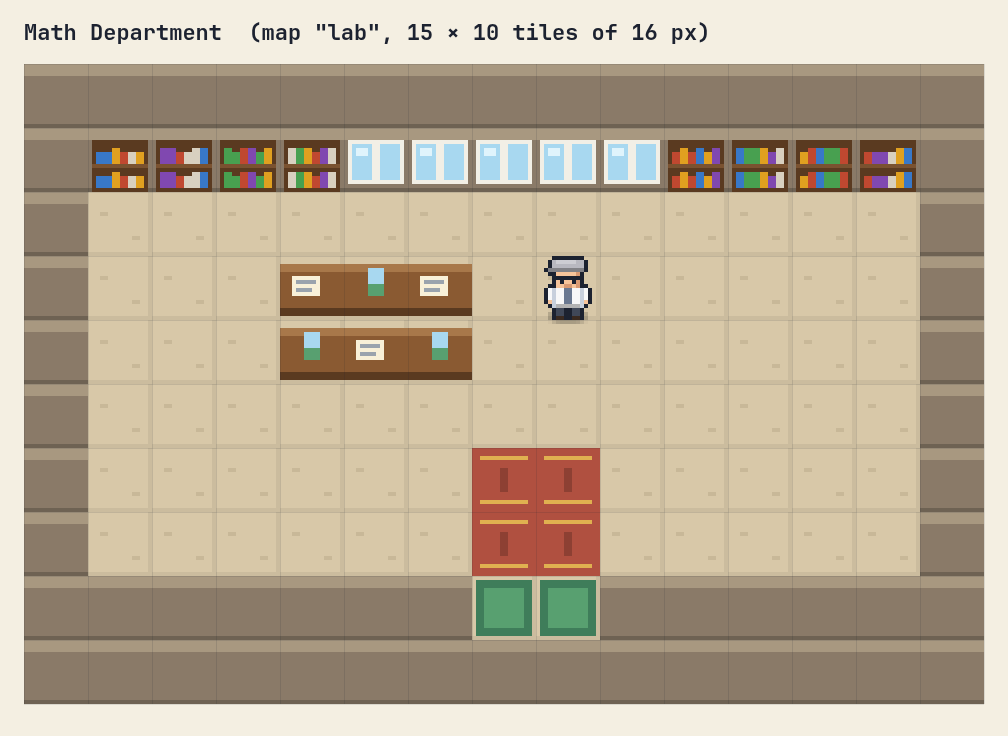
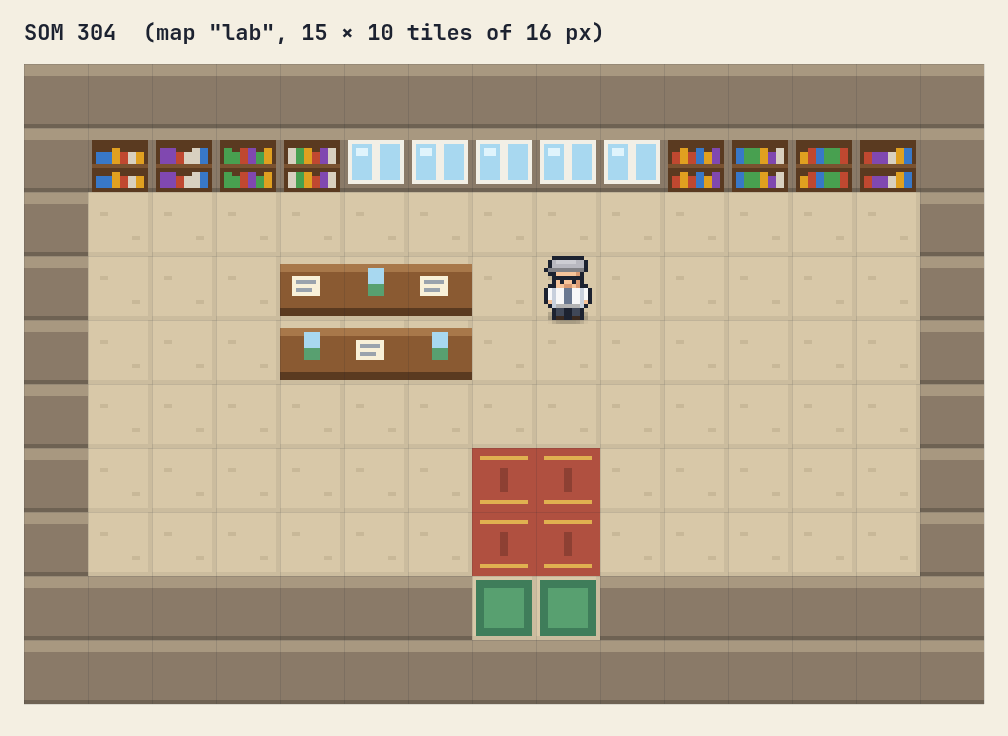
Put Sir Durwin in SOM 304 and strip the title screen to New game

Changed region(s): [[0.0308, 0.0312, 0.7073, 0.0625]]

diff --git a/game/js/draw.js b/game/js/draw.js
@@ -170,7 +170,8 @@ export function drawLock(c, X, Y) { c.fillStyle = "rgba(20,30,40,.45)"; c.fillRe
 export function drawStar(c, X, Y) { px(c, OUTLINE, X + 11, Y, 5, 5); px(c, "#f8d030", X + 12, Y + 1, 3, 3); }
 
 // ---------- buildings ----------
-const LETTERS = { L: ["100", "100", "100", "100", "111"], A: ["010", "101", "111", "101", "101"], B: ["110", "101", "110", "101", "110"] };
+const LETTERS = { L: ["100", "100", "100", "100", "111"], A: ["010", "101", "111", "101", "101"], B: ["110", "101", "110", "101", "110"],
+  S: ["011", "100", "010", "001", "110"], O: ["010", "101", "101", "101", "010"], M: ["101", "111", "101", "101", "101"] };
 function word(c, text, X, Y, col) { [...text].forEach((ch, i) => LETTERS[ch].forEach((row, y) => [...row].forEach((b, x) => b === "1" && px(c, col, X + i * 4 + x, Y + y, 1, 1)))); }
 export function drawLab(c, X, Y) { // 3 × 2 tiles with the door in the middle of the bottom row
   oval(c, X + 24, Y + 31, 26, 3, "rgba(0,0,0,.2)");
@@ -181,7 +182,7 @@ export function drawLab(c, X, Y) { // 3 × 2 tiles with the door in the middle o
   for (let r = 0; r < 6; r++) px(c, "#dcd6c8", X + 1, Y + 14 + r * 3, 46, 1); // siding
   for (const wx of [4, 34]) { px(c, OUTLINE, wx + X - 1, Y + 15, 12, 9); px(c, "#78b8e8", wx + X, Y + 16, 10, 7); px(c, "#c8e8f8", wx + X + 1, Y + 17, 3, 2); px(c, "#f2efe6", wx + X + 5, Y + 16, 1, 7); }
   px(c, OUTLINE, X + 18, Y + 19, 12, 13); px(c, "#6b4a2a", X + 19, Y + 20, 10, 12); px(c, "#8a6040", X + 19, Y + 20, 10, 1); px(c, "#f0c040", X + 26, Y + 26, 1, 1);
-  px(c, OUTLINE, X + 15, Y + 13, 18, 7); px(c, "#2850a0", X + 16, Y + 14, 16, 5); word(c, "LAB", X + 19, Y + 14, "#ffffff");
+  px(c, OUTLINE, X + 15, Y + 13, 18, 7); px(c, "#2850a0", X + 16, Y + 14, 16, 5); word(c, "SOM", X + 19, Y + 14, "#ffffff"); // the JGSOM building, home of SOM 304
 }
 export function drawStore(c, X, Y) { // the JSEC food stall, 2 × 2 tiles, with snacks hanging in the window
   oval(c, X + 16, Y + 31, 17, 3, "rgba(0,0,0,.2)");
@@ -211,7 +212,7 @@ const SCENES = [
   { sky: ["#8fd3f4", "#d8f2fb"], far: "#86c890", ground: "#a8d880", top: "#c4e8a0", rim: "#6aa848" }, // JGSOM Garden
   { sky: ["#f6c870", "#fdf0c8"], far: "#e0b050", ground: "#e8cf78", top: "#f6e4a0", rim: "#b8902c" }, // Leong Hive
   { sky: ["#9ad8f0", "#eaf7fc"], far: "#9cc850", ground: "#cfe08a", top: "#e2f0a8", rim: "#94b040" }, // the Golden Arete
-  { sky: ["#c8b898", "#e8e0d0"], far: "#8a7a68", ground: "#d8c8a8", top: "#e8dcc0", rim: "#b0a080" }, // the Math Department
+  { sky: ["#c8b898", "#e8e0d0"], far: "#8a7a68", ground: "#d8c8a8", top: "#e8dcc0", rim: "#b0a080" }, // SOM 304
 ];
 export function drawBattleBg(c, w, h, level) {
   const s = SCENES[Math.min(level, 3)], horizon = h * 0.52, indoor = level >= 3;

diff --git a/game/js/ui.js b/game/js/ui.js
@@ -93,20 +93,8 @@ export function updateMute() { $("#mute").textContent = settings.muted ? "Sound 
 export function toggleMute() { settings.muted = !settings.muted; updateMute(); saveGlobal(); }
 export function title() {
   document.body.classList.toggle("big", settings.bigText); updateMute(); playMusic("title");
-  const saves = [...Array(SLOTS).keys()].map(readSlot);
-  page(`<div class="page title"><canvas class="tsun" width="360" height="180" aria-hidden="true"></canvas><h1>Pattern Detectives</h1>
-    <p>A pattern-finding adventure at the Ateneo</p>
-    <div class="row"><button id="new">New game</button>${saves.some(Boolean) ? '<button id="cont">Continue</button>' : ""}<button id="speed">Speed battle</button></div>
-    <div class="row small"><button id="demo">Demo mode</button><button id="ach">Achievements</button><button id="ctrl">Controls</button><button id="sets">Settings</button><button id="stats">Playtest data</button></div></div>`);
-  runAnim(pageEl.querySelector(".tsun"), "title");
+  page(`<div class="page title"><div class="row"><button id="new">New game</button></div></div>`);
   $("#new").onclick = () => { audioOn(); SFX.select(); slots("new"); };
-  if ($("#cont")) $("#cont").onclick = () => { audioOn(); SFX.select(); slots("load"); };
-  $("#speed").onclick = () => { audioOn(); speedBattle(); };
-  $("#demo").onclick = () => { audioOn(); demo(); };
-  $("#ach").onclick = () => achievementsPage(title);
-  $("#ctrl").onclick = () => controls(title);
-  $("#sets").onclick = () => { audioOn(); settingsPage(title); };
-  $("#stats").onclick = () => playtestPage(title);
 }
 function slots(mode) {
   const saves = [...Array(SLOTS).keys()].map(readSlot);

diff --git a/game/js/content.js b/game/js/content.js
@@ -101,11 +101,11 @@ export const MAPS = {
     ],
     warps: { "3,1": { to: "garden", x: 8, y: 8, dir: "up", level: 0 }, "8,1": { to: "hive", x: 8, y: 8, dir: "up", level: 1 },
              "13,1": { to: "field", x: 8, y: 8, dir: "up", level: 2 }, "5,7": { to: "lab", x: 7, y: 7, dir: "up" } },
-    signs: { "7,4": "ATENEO DE MANILA. Math Department ↓ · Levels ↑ · One Big Fight!",
+    signs: { "7,4": "ATENEO DE MANILA. JGSOM (SOM 304) ↓ · Levels ↑ · One Big Fight!",
              "9,2": "← JGSOM GARDEN · LEONG HIVE ↑ · THE GOLDEN ARETE →" },
   },
   lab: {
-    name: "Math Department", pal: "lab",
+    name: "SOM 304", pal: "lab",
     rows: [
       "WWWWWWWWWWWWWWW",
       "WKKKKAAAAAKKKKW",
@@ -138,7 +138,7 @@ export const FACTS = [
 
 // ---------- dialogue ----------
 export const INTRO_LINES = [
-  "SIR DURWIN: Ah, you're here! Welcome to the Math Department of the Ateneo.",
+  "SIR DURWIN: Ah, you're here! Welcome to SOM 304, our classroom here in JGSOM.",
   "SIR DURWIN: I'm SIR DURWIN, but people call me the Pattern Professor.",
   "SIR DURWIN: Something strange is happening. The campus's patterns are getting scrambled!",
   "SIR DURWIN: Rabbit counts that don't add up, floors full of gaps, golden rectangles drawn on everything...",

diff --git a/game/js/battle.js b/game/js/battle.js
@@ -51,7 +51,7 @@ function levelDone(level) {
   show("map"); SFX.badge();
   say([`${S.name} earned the ${BADGES[level]}!`, `${LEVELS[level].name}: ${stars(level)} (${firsts} of ${steps} on the first try)`,
        `The patterns of ${LEVELS[level].name} are back in order!`], () =>
-    choice(S.badges === 3 ? "All three badges! Hurry back to SIR DURWIN?" : "Hurry back to the Math Department?", ["Yes", "No"], (i) => { if (i === 0) goHome(); }));
+    choice(S.badges === 3 ? "All three badges! Hurry back to SIR DURWIN?" : "Hurry back to SOM 304?", ["Yes", "No"], (i) => { if (i === 0) goHome(); }));
 }
 
 // ---------- the battle itself ----------

diff --git a/docs/art/README.md b/docs/art/README.md
@@ -6,5 +6,5 @@ PNG exports of the game's maps and character sprites. The art itself is drawn in
 | --- | --- |
 | `characters.png` | Every character, in all four directions, standing and in both walking frames (16 × 16 px, shown 6×) |
 | `map-town.png` | The Ateneo campus, the hub |
-| `map-lab.png` | The Math Department, inside |
+| `map-lab.png` | SOM 304, Sir Durwin's classroom in JGSOM |
 | `map-garden.png`, `map-hive.png`, `map-field.png` | The three Levels |
